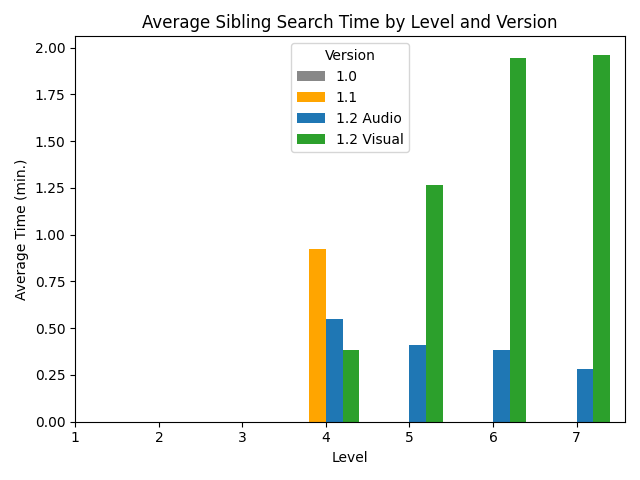
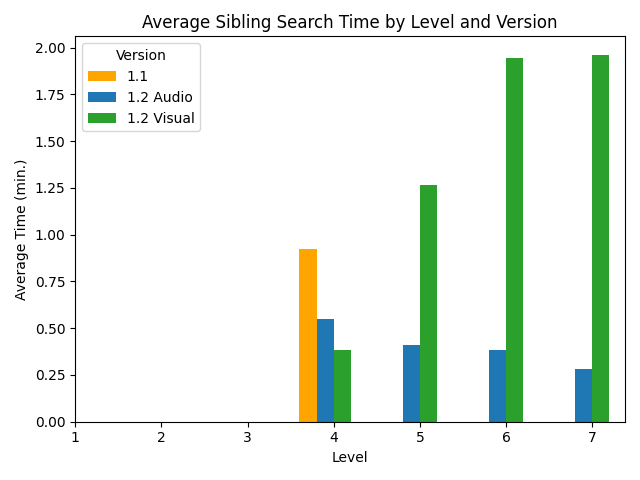
Updated plotting

diff --git a/Data/plot_data.py b/Data/plot_data.py
@@ -25,7 +25,6 @@ COLLECTIONS = [
 ]
 AB_PIPELINES = {0: "Audio", 1: "Visual"}
 VERSION_GROUPS = {
-    "1.0": "#888888",
     "1.1": "#FFA500",
     "1.2 Audio": "#1f77b4",
     "1.2 Visual": "#2ca02c",
@@ -306,7 +305,7 @@ def sibling_hide():
     ax.set_xlabel("Level")
     ax.set_ylabel("Average Time (min.)")
     ax.set_title("Average Sibling Search Time by Level and Version")
-    ax.legend(title="Version")
+    ax.legend(title="Version", loc="upper left")
 
     plt.tight_layout()
     fig_to_png(fig, "sibling_hide")
@@ -415,31 +414,14 @@ def print_num_users():
 ############### Calling the plots functions ####################
 
 def main():
-  pull_data()  # this refreshes the csv files from firestore
-  print_num_users()
+    pull_data()  # this refreshes the csv files from firestore
+    print_num_users()
 
-  user_retention()
-  level_times()
-  sibling_hide()
-  death_plot()
+    user_retention()
+    level_times()
+    sibling_hide()
+    death_plot()
+
 
 # main()
-
-df = csv_to_df("level_complete")
-
-# Calculate unique users in version 1.0 and 1.2
-users_v1_0 = set(df[df["version"] == 1.0]["userId"])
-users_v1_2 = set(df[df["version"] == 1.2]["userId"])
-
-print(len(users_v1_0))
-print(len(users_v1_2))
-# Find users in both versions and only in version 1.0
-common_users = len(users_v1_0 & users_v1_2)
-print(common_users)
-unique_to_v1_0 = len(users_v1_0 - users_v1_2)
-print(unique_to_v1_0)
-# Create a DataFrame with the results
-df = pd.DataFrame(
-    {"Answer": [common_users, unique_to_v1_0]},
-    index=["In both versions", "Only in version 1.0"],
-)
+sibling_hide()
